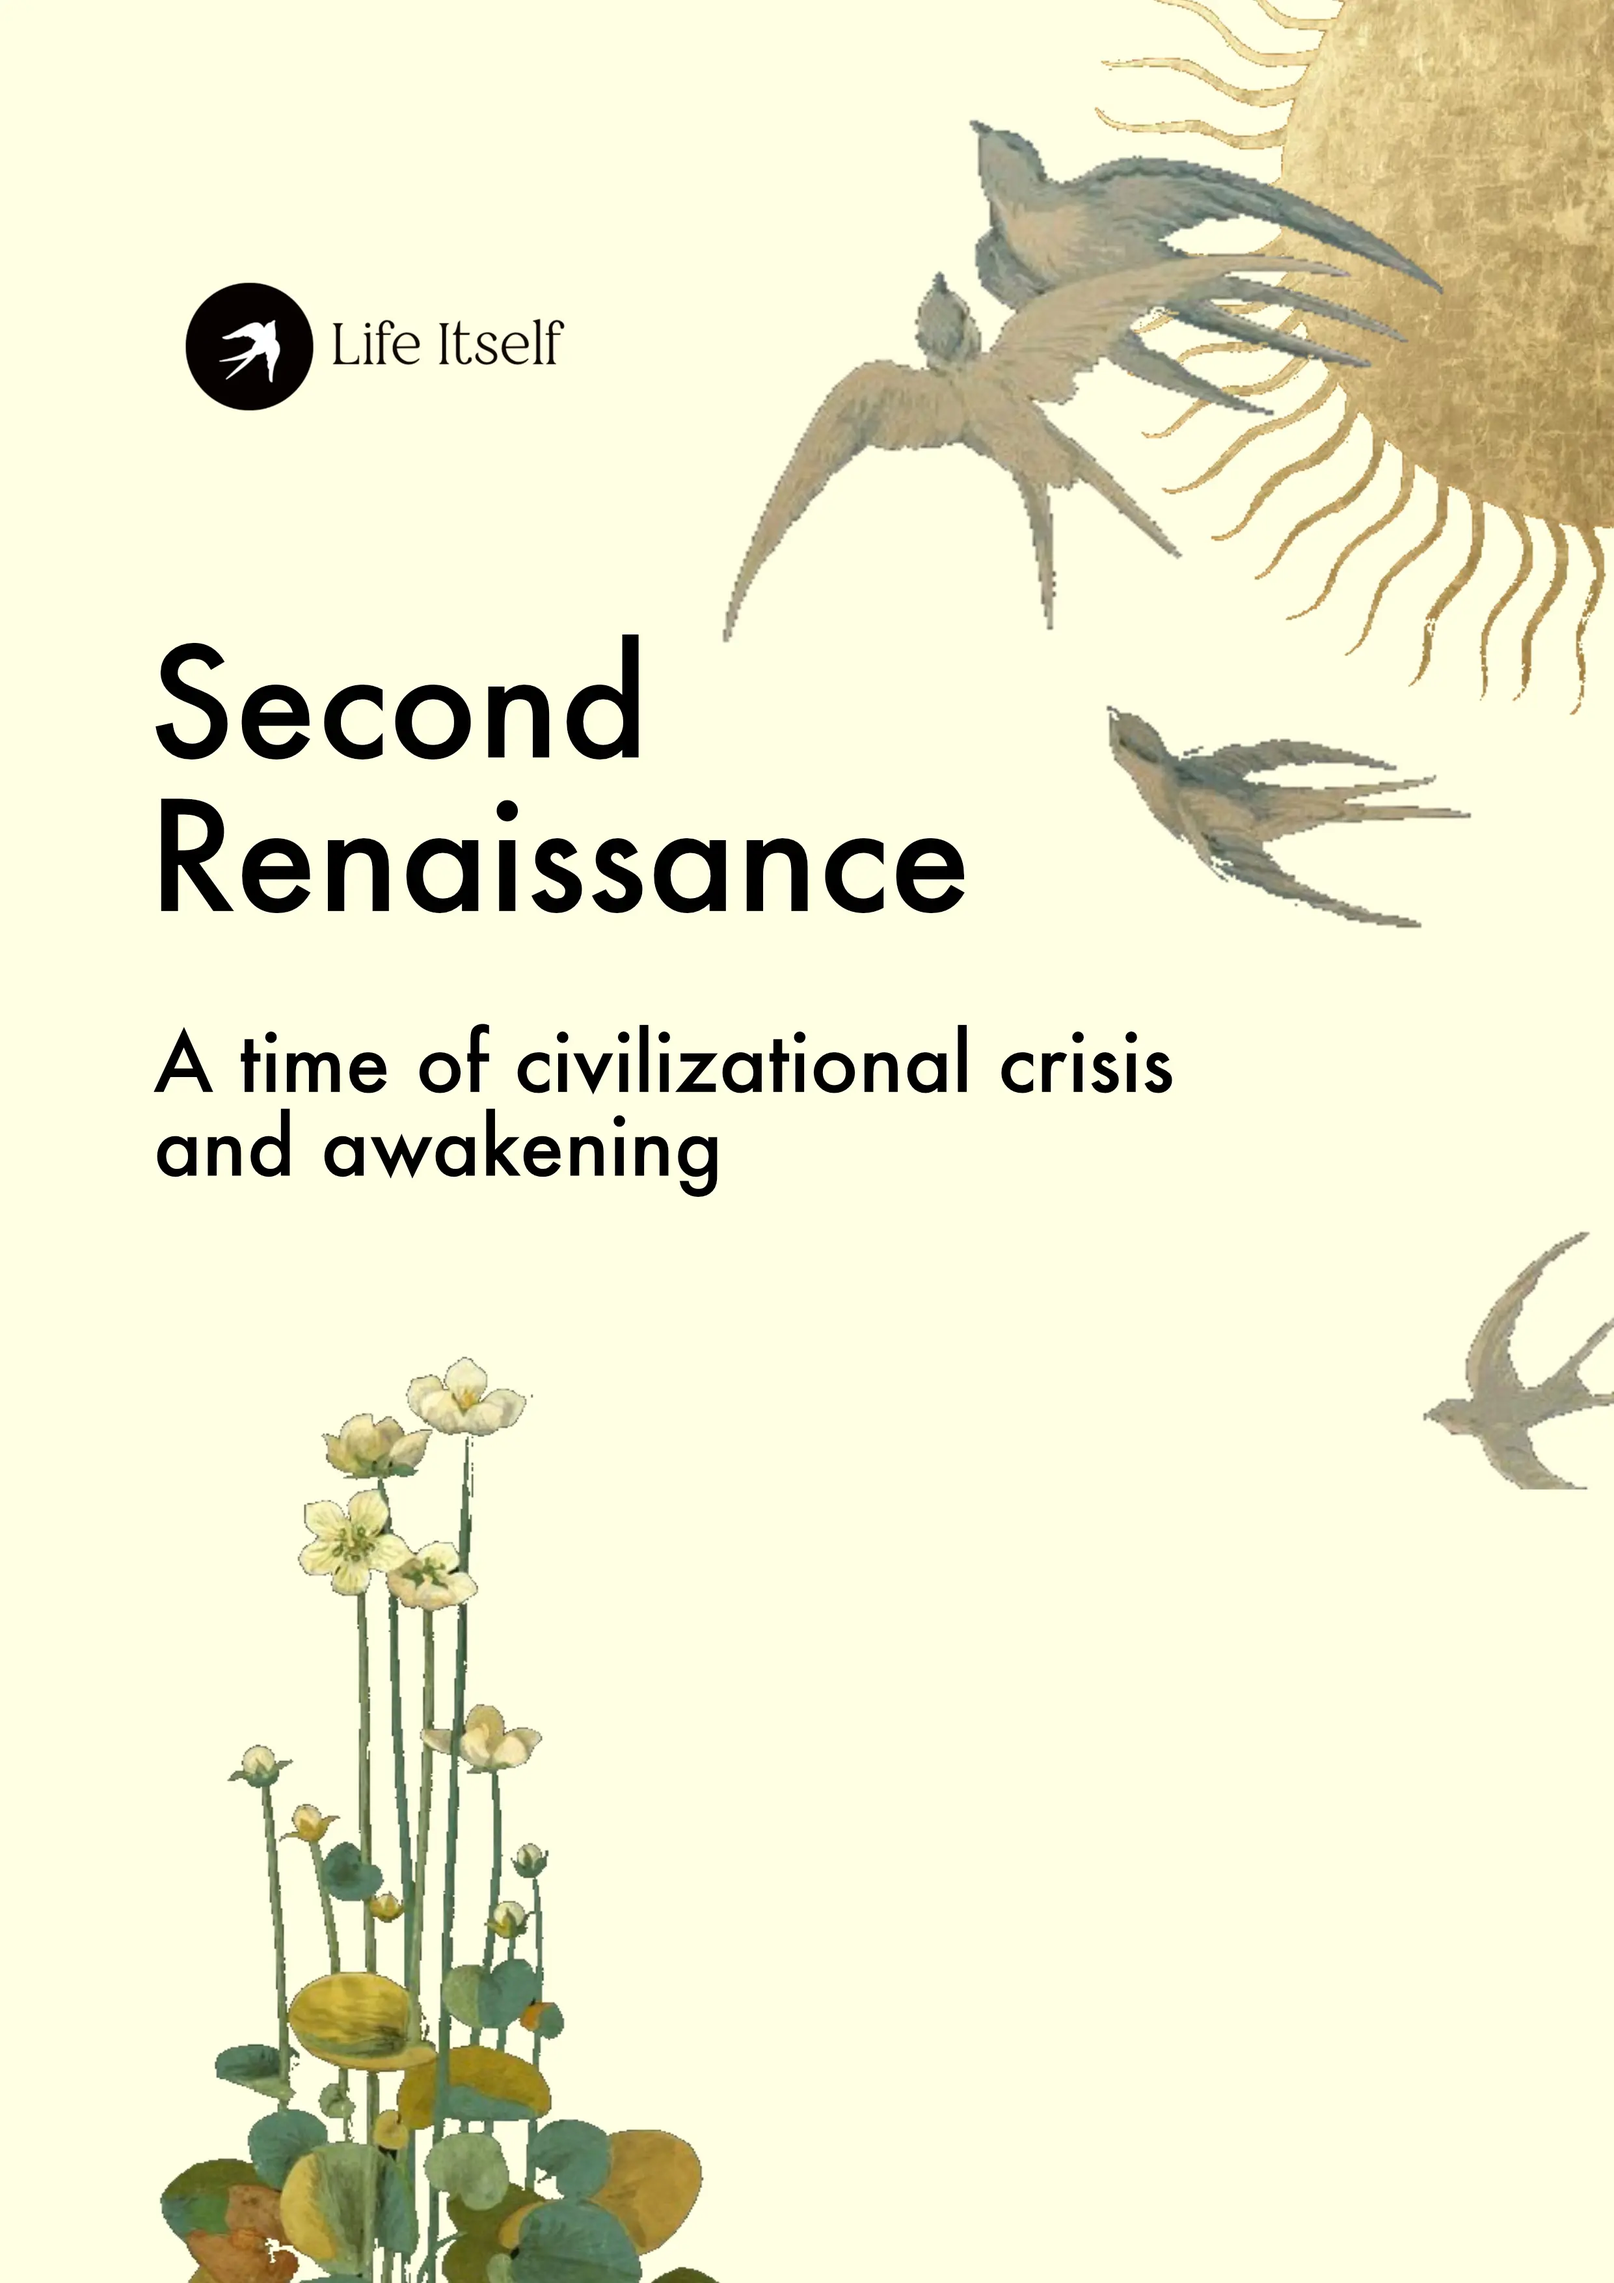
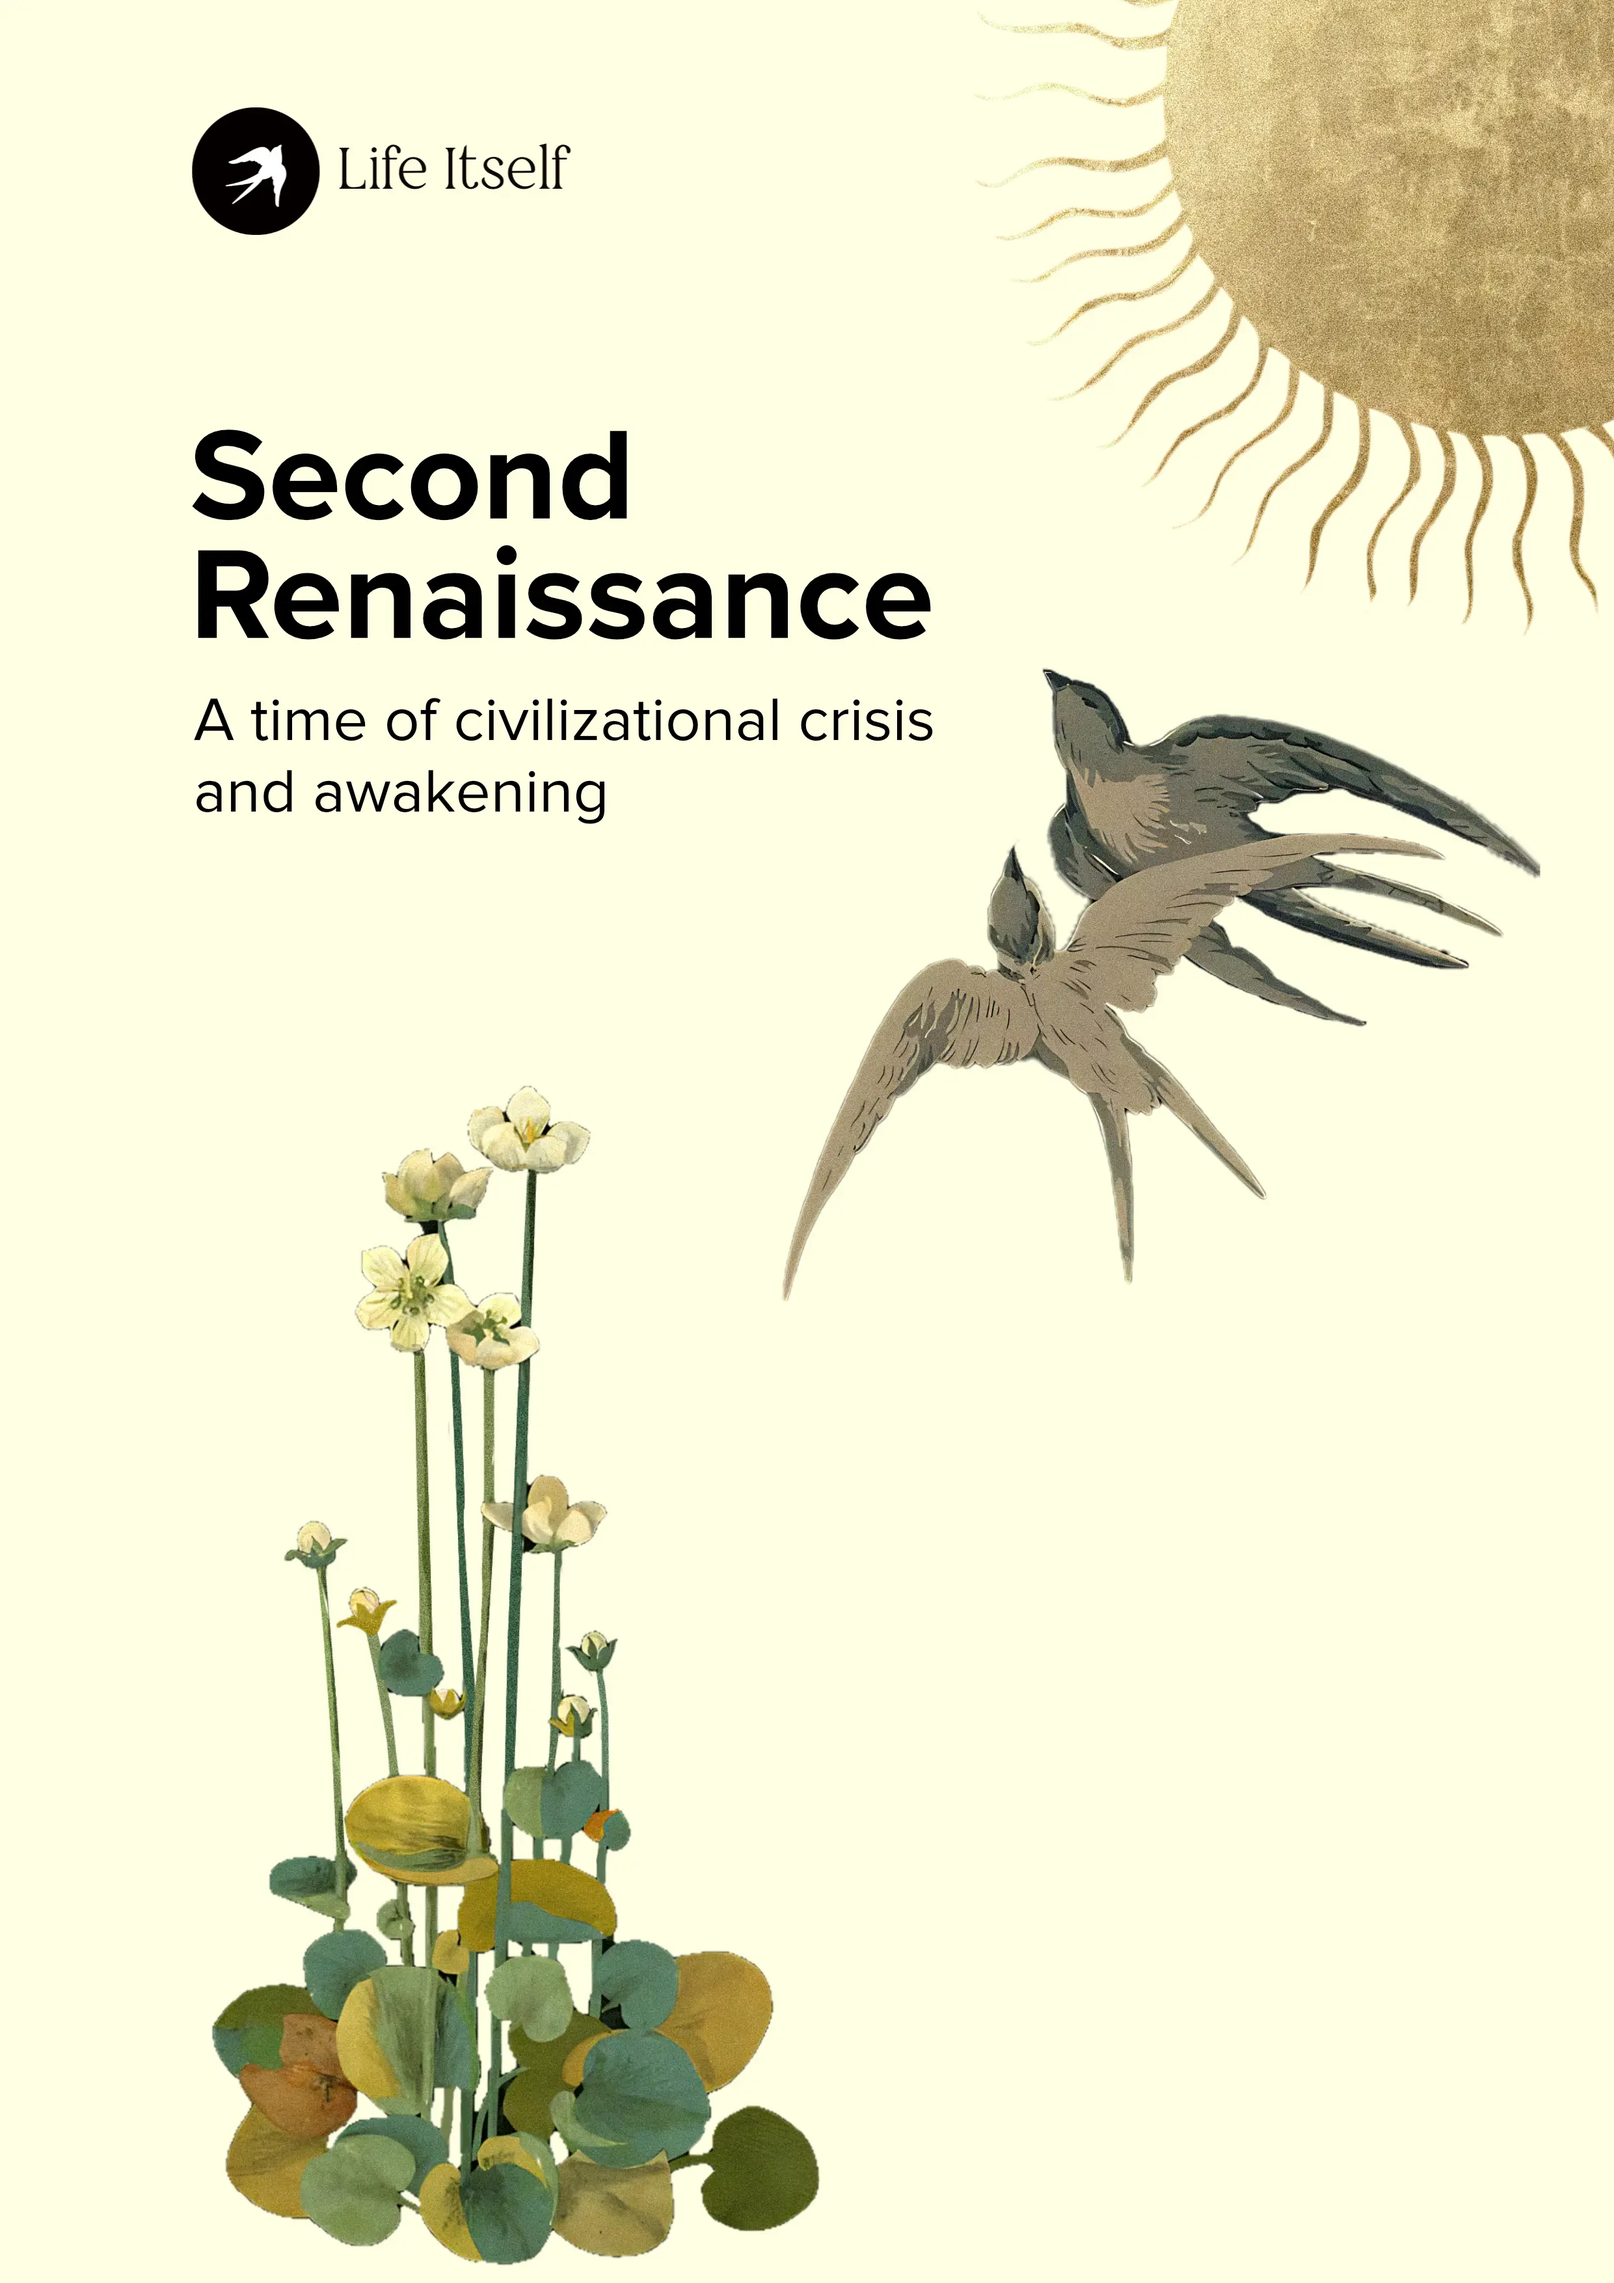
[#331,paper][s]: fix up styling of buttons and reformat layout of page.
- also add newer unpixelated cover image

diff --git a/styles/global.css b/styles/global.css
@@ -89,7 +89,7 @@ html {
 
 /* buttons */
 .btn {
-  @apply font-bold py-2 px-4 rounded-md px-4 py-3 font-medium text-primary shadow no-underline;
+  @apply font-bold py-2 px-4 rounded-md px-4 py-3 font-medium text-primary shadow no-underline inline-block;
 }
 .btn-blue {
   @apply bg-[#F0CA5E];

diff --git a/content/paper.md b/content/paper.md
@@ -1,17 +1,21 @@
 ---
 title: Second Renaissance Whitepaper
 image: /assets/img/homepage/second-renaissance-whitepaper-cover.webp
-description: "We live in a time of civilizational crisis and awakening - a second renaissance. This whitepaper sets out in detail what is a second renaissance would be and why it matters."
+description: "We live in a time of civilizational crisis and awakening - a second renaissance. This whitepaper sets out in detail what is a second renaissance, and why it matters and how it can come about."
 ---
 
-<p className="sm:text-xl">Read our full whitepapers setting out the core thesis and theory of change of a second renaissance -- what it is and why it is important.</p>
+<p className="sm:text-xl">Read our whitepapers setting out the core thesis and theory of change of a second renaissance in detail. What it is,  why it is needed and how it can come about.</p>
 
-<a className="btn btn-blue sm:text-lg no-underline" target="_blank" href="/assets/second-renaissance-whitepaper.pdf">View and download whitepaper no 1:<br />"What and Why of a Second Renaissance and Paradigmatic Change" &raquo;</a>
+<p><a href="/assets/second-renaissance-whitepaper.pdf"><img src="/assets/img/homepage/second-renaissance-whitepaper-cover.webp" alt="Second Renaissance Whitepaper cover" className="sm:w-60 mx-auto block" /></a></p>
 
-<br />
-<br />
-<br />
+### Paper 1: What and Why of a Second Renaissance
 
-<a className="btn btn-blue sm:text-lg no-underline" target="_blank" href="/assets/second-renaissance-how-whitepaper-2.pdf">View and download whitepaper no 2:<br />"How paradigmatic change and a second renaissance can come about" &raquo;</a>
+What is a second renaissance and why is it relevant in this moment of escalating crisis.
 
-<a href="/assets/second-renaissance-whitepaper.pdf"><img src="/assets/img/homepage/second-renaissance-whitepaper-cover.webp" alt="Second Renaissance Whitepaper cover" /></a>
+<a className="btn btn-blue sm:text-lg no-underline" target="_blank" href="/assets/second-renaissance-whitepaper.pdf">View and download Paper 1 &raquo;</a>
+
+### Paper 2: How of a Second Renaissance
+
+How paradigmatic change and a second renaissance can come about.
+
+<a className="btn btn-blue sm:text-lg no-underline" target="_blank" href="/assets/second-renaissance-how-whitepaper-2.pdf">View and download Paper 2 &raquo;</a>
